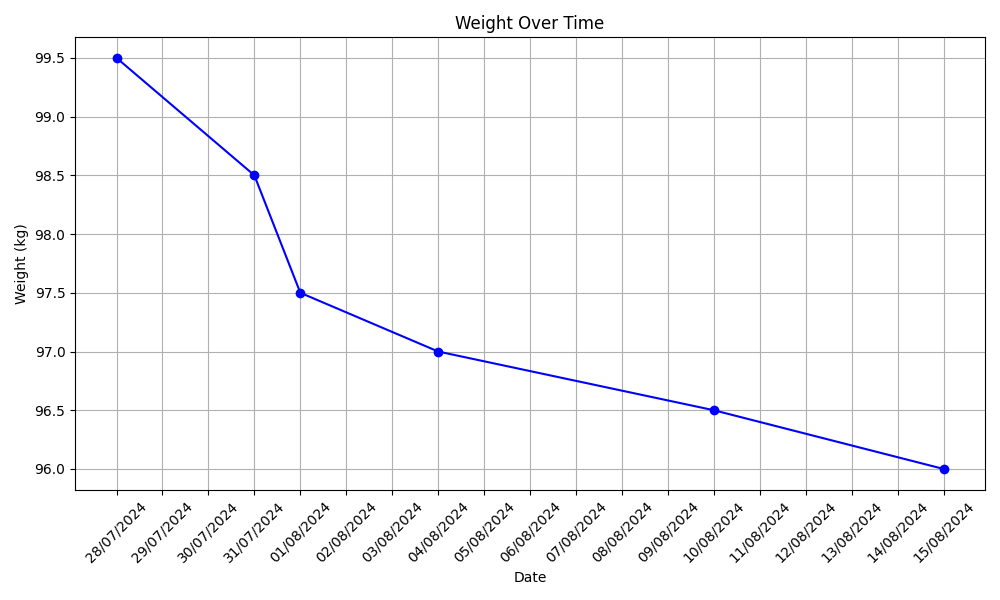
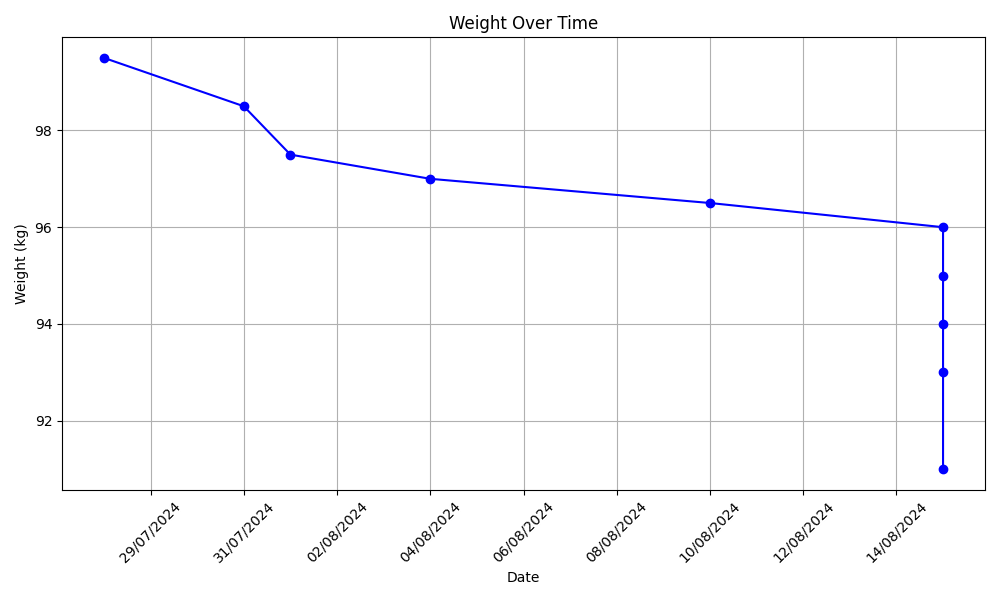
added a menu in main()

diff --git a/fitness_tracker.py b/fitness_tracker.py
@@ -1,6 +1,7 @@
 from datetime import datetime
 import re
 import matplotlib.pyplot as plt
+import os
 
 
 HEIGHT = 178
@@ -52,7 +53,7 @@ def plot_weights(dates, weights):
     plt.ylabel('Weight (kg)')
     
     plt.gca().xaxis.set_major_formatter(plt.matplotlib.dates.DateFormatter("%d/%m/%Y"))
-    plt.gca().xaxis.set_major_locator(plt.matplotlib.dates.DayLocator(interval=1))  # Adjust interval as needed
+    plt.gca().xaxis.set_major_locator(plt.matplotlib.dates.DayLocator(interval=2))  # Adjust interval as needed
 
     plt.grid(True)
     plt.xticks(rotation=45)
@@ -60,20 +61,40 @@ def plot_weights(dates, weights):
     plt.savefig('weight_graph.png')
     print("Plot saved as 'weight_graph.png")
 
+def print_menu():
+    print("===============")
+    print("1. Input Weight")
+    print("2. View weight history")
+    print("3. View Graph")
+    print("===============")
+
 def main():
+    while True:
+        print_menu()
+        try:
+            choice = int(input("Input: "))
 
-    date = get_date()
-    weight = get_weight()
-    weight_str = get_weight_str(weight, date)
+            if choice == 1:
+                os.system('clear')
+                date = get_date()
+                weight = get_weight()
+                weight_str = get_weight_str(weight, date)
+                with open('weights.txt', 'a') as file:
+                    file.write(weight_str)
 
-    with open('weights.txt', 'a') as file:
-        file.write(weight_str)
+            elif choice == 2:
+                os.system('clear')
+                with open('weights.txt', 'r') as file:
+                    contents = file.read()
+                    print(contents)
 
-    dates, weights = read_weights_from_file('weights.txt')
+            elif choice == 3:
+                dates, weights = read_weights_from_file('weights.txt')
+                plot_weights(dates, weights)              
+                print(weight_str)
 
-    plot_weights(dates, weights)
-    
-    print(weight_str)
+        except ValueError:
+            print("Please enter a number only")
 
 if __name__ == "__main__":
     main()
